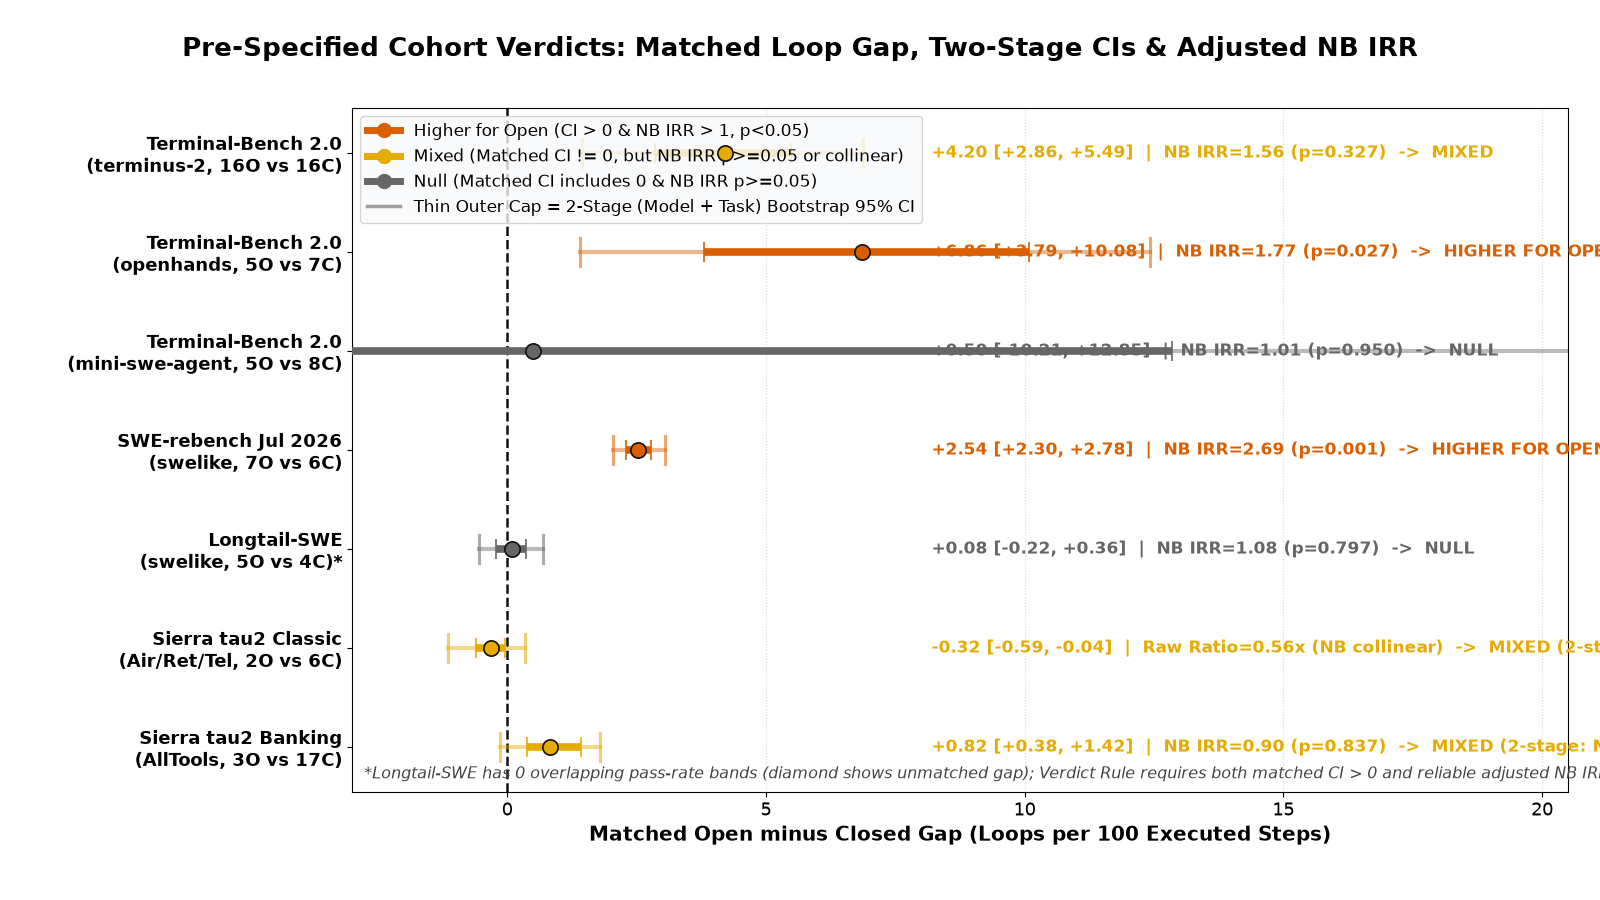
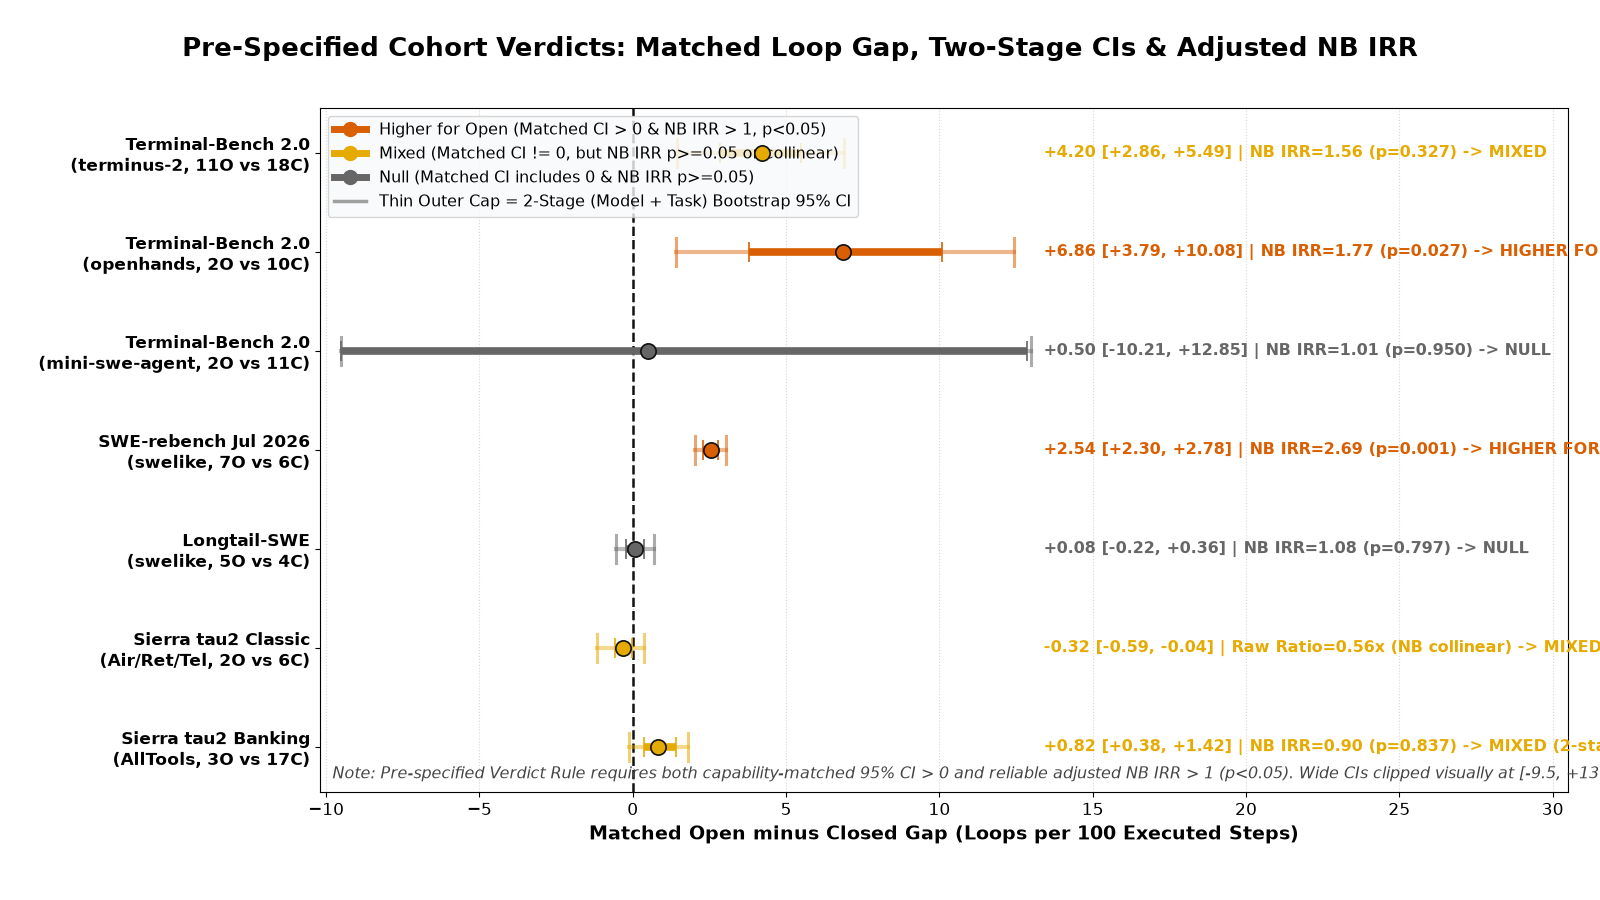
Run Phase 3 precision audit, length control, two-stage bootstrap, harness spread & article rewrite on Colab CPU

diff --git a/ARTICLE_DRAFT.md b/ARTICLE_DRAFT.md
@@ -1,67 +1,67 @@
-# Do open-weight agents loop more? What 58,950 public trajectories actually show
+# Do open-weight agents loop more? What 56,797 uniform-scaffold trajectories actually show
 
-Put the exact same model weights inside two different agent harnesses on the exact same coding tasks, and its loop rate often swings more than the gap between open-weight and closed frontier models.[^1] Across Terminal-Bench 2.0 and SWE-rebench, running identical weights across scaffolds shifts loop density by a median of **6.48 loops per 100 steps**—and up to **26.08 loops per 100 steps** on `gpt-5.2`—while the capability- and length-matched gap between open-weight and closed models on SWE-rebench is just **+0.77 loops per 100 steps** (`95% CI [+0.50, +1.02]`).[^1][^2]
+Put the same model weights inside two different agent harnesses on the same coding tasks, and its loop rate often swings more than the gap between open-weight and closed frontier models.[^1] Across Terminal-Bench 2.0 and SWE-rebench, running identical weights across scaffolds shifts loop density by a median of **6.48 loops/100 steps** on Terminal-Bench—and up to **26.08** on `gemini-2.5-flash` (`4.64` in `terminus-2` vs `30.72` in `mini-swe-agent`) and **24.31** on `gpt-oss-20b`—while the capability- and length-matched gap between open and closed models on SWE-rebench is just **+0.77 loops/100** (`95% CI [+0.50, +1.02]`).[^1][^2]
 
 ![SWE-rebench Open vs Closed Loop Gap Across Controls](assets/hero_raw_vs_controlled.png)
 
-We audited **56,797 executed trajectories** across Terminal-Bench 2.0, SWE-rebench, Longtail-SWE, and Sierra's τ²-bench using a deterministic step labeler, cache-aware billing reconstruction, and counterfactual loop-detector replay.[^3] Here is what holds up when we try to break the result.
+We audited **56,797 executed uniform-scaffold trajectories** (`68,056` step-logged runs total) across Terminal-Bench 2.0, SWE-rebench, Longtail-SWE, and Sierra's τ²-bench using a deterministic step labeler, cache-aware billing reconstruction, and counterfactual loop-detector replay.[^3][^8]
 
 ## 1. The Raw Gap Looks Huge—Until You Inspect Who Ran What
 
-Naive averages on standard scaffolds make open-weight models look far more prone to looping.[^3] On Terminal-Bench `terminus-2` (`16` open vs `16` closed models across `89` tasks), open models average **6.91** loop steps per 100 steps vs **2.69** for closed models (unmatched gap **+4.22**).[^3] On SWE-rebench `swelike` (`7` open vs `6` closed models across `111` tasks), open models average **5.71** vs **0.98** loops/100 steps (gap **+4.73**), with **89.3%** of open runs flagging at least one loop vs **30.0%** of closed runs.[^3]
+Naive averages on standard scaffolds make open-weight models look far more prone to looping.[^3] On Terminal-Bench `terminus-2` (`11` open vs `18` closed models across `85` tasks), open models average **6.91** vs **2.69** loops/100 (unmatched gap **+4.22**).[^3] On SWE-rebench `swelike` (`7` open vs `6` closed models across `111` tasks), open models average **5.71** vs **0.98** loops/100 (gap **+4.73**), with **89.3%** of open runs flagging at least one loop vs **30.0%** of closed runs.[^3]
 
 Three confounders inflate those raw gaps:[^3]
-1. **Capability mismatch**: Leaderboards pair legacy `3%–19%` pass-rate open models (`gpt-oss-20b`, `gpt-oss-120b`) against `60%–72%` closed models; failing runs repeat broken commands until the turn cap.
-2. **Longer open-weight runs**: On SWE-rebench `swelike`, open models average **94.7** steps/run vs **45.4** for closed models, giving them more chances to cross any binary per-run loop threshold.[^2]
+1. **Capability mismatch**: Leaderboards pair `3%–20%` pass-rate open models (`gpt-oss-20b`, `gpt-oss-120b`) against `58%–65%` closed models; failing runs repeat broken commands until the turn cap.
+2. **Longer open-weight runs**: On SWE-rebench `swelike`, open models average **94.7** steps/run vs **45.4** for closed (`2.09x` longer), doubling exposure to binary per-run loop flags.[^2]
 3. **Hidden harness and tool differences**: Proprietary entries (`claude-code`, `codex`, `gemini-cli`, `cursor`, `junie`) bundle custom loop guards, while Sierra's `banking_knowledge` folder mixes four retrieval toolsets (`AllTools`, `terminal_use`, `openai_embeddings`, `qwen_embeddings`).[^3]
 
 ## 2. Controlling for Skill, Run Length, Labeler Strictness, and Model Sampling
 
-Matching open and closed models inside identical pass-rate bands (`<25%`, `25–40%`, `40–55%`, `55–75%`, `>=75%`) on the same scaffold and tasks cuts the SWE-rebench gap nearly in half, from **+4.73** to **+2.54** loops/100 steps (`1-stage task CI [+2.30, +2.78]`).[^3] Matching simultaneously on pass-rate band and step-count decile trims it to **+0.77** (`[+0.50, +1.02]`).[^2]
+Matching open and closed models inside identical pass-rate bands (`<25%`, `25–40%`, `40–55%`, `55–75%`, `>=75%`) on the same scaffold and tasks cuts the SWE-rebench gap nearly in half, from **+4.73** to **+2.54** loops/100 (`1-stage task CI [+2.30, +2.78]`).[^3] Matching simultaneously on pass-rate band and step-count decile trims it to **+0.77** (`[+0.50, +1.02]`), and trims Terminal-Bench `terminus-2` from **+4.22** to **+0.99** (`[+0.62, +1.29]`).[^2]
 
-Trajectory length explains almost the entire binary gap in *"how many runs have at least one loop."* In a run-level logistic regression with task fixed effects and two-way `(model, task)` cluster-robust SEs, open-weight status has an odds ratio of **8.43** (`p=0.0005`) on SWE-rebench and **2.25** (`p=0.024`) pooled across all seven cohorts.[^2][^3] Adding `log(steps)` collapses the SWE-rebench odds ratio to **1.34** (`p=0.58`) and the pooled odds ratio to **1.47** (`p=0.25`)—both indistinguishable from `1.0`.[^2][^3] Open models flag more runs mainly because their trajectories run longer.
+Trajectory length explains almost the entire binary gap in *"runs with at least one loop."* In a run-level logistic regression with task fixed effects and two-way `(model, task)` cluster-robust SEs, open-weight status has an odds ratio of **8.43** (`p=0.022`) on SWE-rebench and **2.25** (`p=0.024`) pooled across all seven cohorts.[^2][^3] Adding `log(steps)` collapses the SWE-rebench odds ratio to **1.34** (`p=0.49`) and the pooled odds ratio to **1.47** (`p=0.25`)—both indistinguishable from `1.0`.[^2][^3]
 
 ![Pre-Specified Cohort Verdicts](assets/cohort_verdicts.png)
 
-To avoid cherry-picking across seven uniform-scaffold cohorts, we applied one pre-specified verdict rule: a cohort is **"higher for open"** only if its matched-gap 95% CI excludes zero *and* its adjusted Negative Binomial `IRR` is reliable with `p < 0.05`.[^4] Under 1-stage task bootstrapping, only **swe_rebench_swelike** (matched gap `+2.54`, NB `IRR=2.69, p=0.0001`) and **tb_openhands** clear both bars.[^4] Terminal-Bench `terminus-2` (`+4.20` matched gap, NB `IRR=1.41, p=0.33`), `tb_mini_swe_agent`, and Sierra `tau2_banking_knowledge_alltools` (`-1.13` unmatched, `+0.82` matched, NB `IRR=0.92, p=0.84`) land in **"mixed"** or **"null"** (`Longtail-SWE` has zero overlapping skill bands because closed models used `1M` context vs `262K` for open models).[^3][^4] Upgrading to a **two-stage `(model, task)` bootstrap** (`[+2.04, +3.05]` on SWE-rebench; `[+1.44, +6.88]` on TB) widens CIs `1.5x–3x`, reflecting `2–16` models per side.[^4]
+Under one pre-specified verdict rule—**"higher for open"** only if the matched-gap 95% CI excludes zero *and* the adjusted Negative Binomial `IRR` is reliable with `p < 0.05`—both 1-stage task and 2-stage `(model, task)` bootstraps show only **`swe_rebench_swelike`** (matched gap `+2.54`, 2-stage `CI [+2.04, +3.05]`, NB `IRR=2.69, p=0.0014`) and **`tb_openhands`** (`+6.86`, 2-stage `CI [+1.40, +12.43]`, NB `IRR=1.77, p=0.027`) clear both bars.[^4] Terminal-Bench `terminus-2` (`+4.20`, 2-stage `CI [+1.44, +6.88]`, NB `IRR=1.56, p=0.33`) is **"mixed"**, while `tb_mini_swe_agent` (`+0.50`, NB `IRR=1.01, p=0.95`) and `longtail_swe_swelike` (`+0.08`, NB `IRR=1.08, p=0.80`; closed models used `1M` context vs `262K` for 4 of 5 open models) are **"null"**.[^3][^4] Sierra `tau2_classic` (`-0.32` matched) and `tau2_banking_knowledge_alltools` (`-1.13` unmatched, `+0.82` matched, NB `IRR=0.90, p=0.84`) move from **"mixed"** (1-stage) to **"null"** under the 2-stage bootstrap (`1.75x–2.66x` wider CIs).[^4]
 
-We also audited labeler precision across 40 random flagged runs (`audit/flagged_samples.md`) and tested a **strict labeler** keeping only exact commands repeated `>=3` times consecutively, A-B-A thrashing (`>=3` cycles), and period-`k` rotations—dropping single repeats, near-duplicates, redundant re-reads, and error streaks.[^5][^6] Under strict rules, SWE-rebench loop density falls `~70%` in both groups—to **0.13** vs **0.02** loops/100 (`Open` vs `Closed`), shrinking the matched gap to **+0.04** (`1.12` vs `0.67` unmatched on TB).[^6] Furthermore, **47.6%** of open-weight `exact_loop` steps on SWE-rebench (`48.7%` for closed) are harmless read-only checks (`git diff`, `git status`, `grep`, `cat`, `ls`, or unchanged `pytest`).[^7]
+We also audited 40 random flagged runs (`audit/flagged_samples.md`) and tested a **strict labeler** keeping only exact commands repeated `>=3` times consecutively, A-B-A thrashing (`>=3` cycles), and period-`k` rotations—dropping single 2-step repeats, near-duplicates, redundant re-reads, and error streaks.[^5][^6] Under strict rules, SWE-rebench loop density falls `~98%` in both groups—to **0.13** vs **0.02** loops/100 (`Open` vs `Closed`), shrinking the matched gap to **+0.04** (`1.12` vs `0.67` unmatched, `+0.52` matched on TB).[^6] Moreover, **47.6%** of open-weight `exact_loop` steps on SWE-rebench (`48.7%` for closed) are read-only checks (`git diff/status/log`, `grep/cat/ls`, read tools, or unchanged `pytest`).[^7]
 
 ![Frontier Showdown on SWE-rebench](assets/glm52_vs_opus5.png)
 
-In dollar terms (`6,381` cost-validated SWE-rebench runs), pooled loop spend is **2.38% ($117.38 / $4,927.87)** because expensive low-looping closed runs dominate total spend, though within individual models loop dollar share exceeds step share.[^8] Among SWE-rebench frontier peers, open-weight `glm-5.2` hits a **62.9%** pass rate at **$0.38/run** (`1.56` loops/100; `2.18%` loop dollars), competing with `opus-5` (**63.6%** pass, **$1.64/run**, `0.67` loops/100), `grok-4.5` (**64.1%** pass, **$2.25/run**, `0.65` loops/100), and `gpt-5.6-sol` (**72.1%** pass, **$0.55/run**, `0.31` loops/100).[^3][^6]
+In dollar terms (`6,844` cost-validated SWE-rebench runs), pooled loop spend is **2.87% ($215.10 / $7,506.20)** because expensive closed runs dominate spend, while within `swe_rebench_swelike` open models spend **5.20%** of dollars in loops vs **1.14%** for closed.[^3][^8] Among SWE-rebench `swelike` frontier peers, open-weight `glm-5.2` hits **62.9%** pass at **$1.19/run** (`1.72` loops/100; `1.40%` loop dollars), matching `claude-opus-5` (**63.4%**, **$2.81/run**, `1.12` loops/100), `grok-4.5` (**63.8%**, **$2.28/run**, `0.65` loops/100), and `gpt-5.6-sol` (**62.3%**, **$0.31/run**, `0.85` loops/100).[^3][^6]
 
 ## 3. Production Loop Detectors Beat Random Stopping on Precision and Savings
 
 ![Production Loop Guards vs Matched Random Stoppers](assets/detectors_vs_random.png)
 
-Replaying `gemini_cli`, `openclaw_10` (30-step sliding window), `cline_style` (5 identical consecutive actions), and `openhands_stuck` against 200-seed step-matched random stoppers shows:[^9]
-- **Terminal-Bench 2.0**: `gemini_cli` halves the false-stop rate (`FSR`, stopped runs that would have passed)—**10.77%** vs **23.18%** (`95% CI [20.51%, 25.90%]`) random—saving **5.71% ($190.06)** of validated spend (`0.24 pp` pass-rate loss). `openclaw_10` saves **5.05% ($168.28)** at **13.49% FSR** (`0.19 pp` loss), and `cline_style` saves **5.00% ($166.68)** at **18.38% FSR** vs **23.05%** random.[^9]
-- **SWE-rebench**: `gemini_cli` saves **2.05% ($100.87)** vs **1.62%** (`[1.42%, 1.82%]`) random, with **22.20% FSR** vs **28.60%** (`[25.04%, 31.99%]`) random. Adjacent-step guards (`cline_style`) miss **82.9% (`277/334`)** of `period_k_rotation` cycles on TB and **98.3% (`118/120`)** on SWE-rebench—making sliding-window memory (`openclaw_10`) essential.[^8][^9]
+Replaying `gemini_cli`, `openclaw_10` (30-step sliding window), `cline_style` (5 identical actions), and `openhands_stuck` against 200-seed step-matched random stoppers shows:[^9]
+- **Terminal-Bench 2.0**: `gemini_cli` halves the false-stop rate (`FSR`, stopped runs that would have passed)—**10.77%** vs **23.18%** (`95% CI [20.51%, 25.90%]`) random—saving **5.71% ($190.06)** vs **4.33%** random (`0.24 pp` pass loss). `openclaw_10` saves **5.05% ($168.28)** at **13.49% FSR** (`0.19 pp` loss), and `cline_style` saves **5.00% ($166.68)** at **18.38% FSR** vs **23.05%** random.[^9]
+- **SWE-rebench**: `gemini_cli` saves **2.14% ($160.74)** vs **1.53%** (`[1.28%, 1.97%]`) random, with **22.20% FSR** vs **28.60%** (`[25.04%, 31.99%]`) random. Adjacent-step guards (`cline_style`) miss **82.9% (`277/334`)** of `period_k_rotation` cycles on TB and **98.3% (`118/120`)** on SWE-rebench—making sliding-window memory (`openclaw_10`) essential.[^8][^9]
 
 ## 4. Same Model, Different Harness: Scaffolds Move Loop Rates as Much as Weights
 
 ![Same Model Across Different Harnesses](assets/harness_dumbbell.png)
 
 Models evaluated across multiple scaffolds on shared tasks (`results/same_model_across_harness.csv`) show that swapping the harness while holding weights and tasks fixed shifts looping dramatically:[^1]
-- **`gpt-5.2` (Closed, TB)**: Jumps from **0.71** loops/100 in `codex` to **1.50** in `terminus-2` and **12.56** in `mini-swe-agent` (**11.85**/100 spread).[^1]
-- **`claude-opus-4-5` & `claude-sonnet-4-5` (Closed, TB & SWE)**: Shift from **0.72–1.27** in `terminus-2` to **4.15–4.75** in `claude-code`, **3.79–4.59** in `mini-swe-agent`, and **3.66–4.84** in `openhands` (**3.69–4.03**/100 spread).[^1]
-- **`gpt-oss-120b` & `qwen3-coder-480b` (Open, TB)**: Drop from **10.75** and **4.14** in `terminus-2` to **3.22** (`mini-swe-agent`) and **2.26** (`openhands`), cutting open-model looping by `45%–70%`.[^1]
+- **`gemini-2.5-flash` & `gemini-2.5-pro` (Closed, TB)**: `gemini-2.5-flash` jumps from **4.64** loops/100 (`terminus-2`) and **7.51** (`gemini-cli`) to **10.01** (`openhands`) and **30.72** (`mini-swe-agent`, **26.08** spread); `gemini-2.5-pro` spans **2.51–17.78** (**15.27** spread).[^1]
+- **`gpt-5`, `gpt-5-nano` & `claude-fable-5` (Closed, TB & SWE)**: `gpt-5` rises from **0.81** (`terminus-2`) to **2.20** (`codex`) and **7.12** (`openhands`, **6.31** spread), `gpt-5-nano` spans **1.33–20.31** (**18.98** spread), and `claude-fable-5` jumps from **0.71** (`swelike`) to **6.41** (`claude-code`, **5.69** spread).[^1]
+- **`gpt-oss-20b`, `gpt-oss-120b` & `minimax-m2.1` (Open, TB)**: `gpt-oss-20b` jumps from **3.61** (`terminus-2`) to **27.92** (`mini-swe-agent`, **24.31** spread) and `gpt-oss-120b` from **4.57** to **12.05** (**7.48** spread), while `minimax-m2.1` drops from **3.84** (`terminus-2`) to **2.00** (`claude-code`).[^1]
 
 Part of this spread reflects step-logging granularity: `terminus-2` batches multi-command shell turns, whereas `claude-code` and `mini-swe-agent` log per-tool steps (and raw `openhands` pairs action and observation events collapsed before scoring).[^1]
 
 ## 5. Inside the Google Gemini Family
 
-Binary "open vs closed" labels also hide wide spread inside a single vendor. Across Google Gemini checkpoints:[^3][^10]
-- On Terminal-Bench `terminus-2`, **`gemini-2.5-flash`** (`16.9%` pass) hits **12.22 loops/100** (`47.0%` of runs looping) and **`gemini-2.5-pro`** (`29.2%` pass) hits **9.24**, whereas **`gemini-3-pro`** (`44.2%` pass) drops to **4.57** and **`gemini-3-flash`** (`48.3%` pass) reaches **3.25**.[^3] Moving `gemini-3-pro` and `gemini-3-flash` into `gemini-cli` cuts loop rates to **2.15** and **1.52** loops/100.[^1]
-- On Sierra τ²-bench, `gemini-3-pro` (`0.93`/100) and `gemini-3-flash` (`1.92`/100) are disciplined on `tau2_classic`, and on `banking_knowledge` (`AllTools`) `gemini-2.5-pro` (`0.81`/100) and `gemini-3.1-pro-preview` (`1.91`/100) rank near the top.[^3] Placing `gemini-3-flash` and `gemini-3-pro` in Sierra's shell-only `terminal_use` scaffold raises loop rates to **2.98** and **2.35** loops/100.[^10]
+Binary "open vs closed" labels also hide wide spread inside one vendor:[^3][^10]
+- On Terminal-Bench `terminus-2`, **`gemini-2.5-flash`** (`17.9%` pass) averages **4.68 loops/100** (`14.8%` looping) and **`gemini-2.5-pro`** (`33.4%` pass) averages **2.49**, while **`gemini-3-flash-preview`** (`52.6%` pass) averages **4.53** and **`gemini-3-pro-preview`** (`58.8%` pass) drops to **0.94** (`6.8%` looping).[^3] On `terminus-3-3`, **`gemini-3.1-pro-preview`** (`74.2%` pass) reaches **0.64 loops/100**.[^10]
+- On Sierra τ²-bench, `gemini-3-pro` (`0.15`/100, `84.8%` pass) and `gemini-3-flash` (`1.92`/100, `80.9%` pass) are disciplined on `tau2_classic`. On `banking_knowledge` (`AllTools`), `gemini-2.5-pro` (`2.91`/100) and `gemini-3.1-pro-preview` (`7.80`/100) beat Sierra's shell-only `terminal_use` scaffold (`10.03` and `16.16` loops/100 for `gemini-3-flash` and `gemini-3-pro`).[^3][^10]
 
 ## 6. Limitations and Audit Diagnostics
 
-1. **Finite model sample size**: Cohorts contain `2–16` open and `4–17` closed models; two-stage `(model, task)` bootstraps capture model-sampling variance.[^4]
-2. **Regression collinearity in `tau2_classic`**: Phase 2 reported an adjusted NB `IRR = 0.03` (`p = 0.017`) on `tau2_classic` despite raw rates of **0.42** (Open) vs **0.76** (Closed) loops/100 (**0.56x** raw ratio).[^4][^11] Both open models released in Feb 2026 (`month=13`), while all six closed models released in Sep–Dec 2025 (`months=8..11`), where Dec closed models looped more than Sep Claude models (`IRR=3.11/month`). Dropping `release_months` restores NB `IRR` to **0.56** (`p=0.008`), matching the raw ratio.[^11]
-3. **Terminal-Bench cost rebuild exclusions (`n<100` suppression)**: Our `[0.50x, 2.00x]` filter kept `5,011` TB runs (**800** closed runs) and dropped `24,543` mismatches (median RSC ratio `0.12x`).[^12] Over `85%` of dropped runs contain unresolved Next.js RSC `$<hex>` pointers (`$3b`, `$4a`) in `tbench.ai` exports replacing multi-KB outputs with 3-byte strings—not a `cost_cents / 100` or `cache_tokens` bug.[^12] Cells with `<100` cost-valid runs are suppressed as `n<100`.[^3]
-4. **Missing Terminal-Bench step traces**: `17,642` of `52,104` TB rows have `steps = null`, including `claude-opus-4-6` (`70.8%` pass), `gpt-5.3-codex` (`68.5%`), and `gemini-3.1-pro-preview` (`65.2%`).[^13]
+1. **Finite model sample size**: Cohorts contain `2–11` open and `4–18` closed models; 2-stage `(model, task)` bootstraps capture model-sampling variance.[^4]
+2. **Regression collinearity in `tau2_classic`**: Phase 2 reported NB `IRR = 0.03` (`p=0.017`) on `tau2_classic` despite raw rates of **0.42** (Open) vs **0.76** (Closed) loops/100 (**0.56x** raw ratio).[^4][^11] Both open models released in Feb 2026 (`month=13`), while all six closed models released in Sep–Dec 2025 (`months=8..11`), where Dec closed models looped more than Sep/Nov Claude models (`IRR=3.11/month`). Dropping `release_months` restores NB `IRR` to **0.60** (`p=0.392`), matching the `0.56x` raw ratio.[^11]
+3. **Terminal-Bench cost exclusions (`n<100` suppression)**: Our `[0.50x, 2.00x]` filter kept `5,011` TB runs (**800** closed) and dropped `24,543` mismatches (median RSC ratio `0.12x`).[^12] Exactly `23,076` of `24,543` dropped runs (`94.0%`) contain Next.js RSC `$<hex>` pointers (`$3b`, `$4a`) in `tbench.ai` exports replacing multi-KB outputs with 3-byte strings—not a `cost_cents / 100` or `cache_tokens` bug.[^12] Cells with `<100` cost-valid runs are suppressed as `n<100`.[^3]
+4. **Missing Terminal-Bench step traces**: `17,642` of `52,104` TB rows have `steps = null`, including `gpt-5.3-codex@openai` (`75.1%` pass), `kimi-k2.5@kimi` (`65.5%`), and `glm-4.7@z-ai` (`62.0%`).[^13]
 
 > ### Method Box: Labels, Matching & Regression Specifications
 > - **Default vs Strict Labeler**: Normalization strips ANSI codes, timestamps, UUIDs, and temp paths. The default 6-class labeler flags `exact_loop`, `near_duplicate`, `aba_thrash`, `period_k_rotation (k<=5)`, `error_streak (>=4)`, and `redundant_reread` while excluding `productive_repeat`. The strict labeler keeps only `>=3` consecutive `exact_loop` steps, `>=3`-cycle `aba_thrash`, and `period_k_rotation`.[^6]
@@ -72,14 +72,14 @@ Binary "open vs closed" labels also hide wide spread inside a single vendor. Acr
 ### Footnotes & Data Provenance
 [^1]: [`results/same_model_across_harness.csv`](results/same_model_across_harness.csv), [`assets/harness_dumbbell.png`](assets/harness_dumbbell.png).
 [^2]: [`results/length_matched_comparison.csv`](results/length_matched_comparison.csv), [`results/length_decile_breakdown.csv`](results/length_decile_breakdown.csv), [`assets/hero_raw_vs_controlled.png`](assets/hero_raw_vs_controlled.png).
-[^3]: [`results/loops_by_model_scaffold.csv`](results/loops_by_model_scaffold.csv), [`results/open_vs_closed_matched.csv`](results/open_vs_closed_matched.csv), [`results/open_vs_closed_model.md`](results/open_vs_closed_model.md).
+[^3]: [`results/loops_by_model_scaffold.csv`](results/loops_by_model_scaffold.csv), [`results/open_vs_closed_summary.csv`](results/open_vs_closed_summary.csv), [`results/open_vs_closed_model.md`](results/open_vs_closed_model.md).
 [^4]: [`results/cohort_verdicts.csv`](results/cohort_verdicts.csv), [`results/two_stage_bootstrap_comparison.csv`](results/two_stage_bootstrap_comparison.csv), [`assets/cohort_verdicts.png`](assets/cohort_verdicts.png).
 [^5]: [`audit/flagged_samples.md`](audit/flagged_samples.md).
 [^6]: [`results/strict_vs_default_labeler.csv`](results/strict_vs_default_labeler.csv), [`results/strict_vs_default_by_model.csv`](results/strict_vs_default_by_model.csv), [`assets/glm52_vs_opus5.png`](assets/glm52_vs_opus5.png).
 [^7]: [`results/readonly_exact_loops.csv`](results/readonly_exact_loops.csv).
 [^8]: [`results/study_metrics.json`](results/study_metrics.json), [`results/summary.md`](results/summary.md).
-[^9]: [`results/detector_simulation.csv`](results/detector_simulation.csv), [`assets/detectors_vs_random.png`](assets/detectors_vs_random.png).
-[^10]: [`results/tau2_non_alltools_banking_knowledge.csv`](results/tau2_non_alltools_banking_knowledge.csv), [`results/loops_by_family.csv`](results/loops_by_family.csv).
+[^9]: [`results/tb_detectors.csv`](results/tb_detectors.csv), [`results/swe_detectors.csv`](results/swe_detectors.csv), [`assets/detectors_vs_random.png`](assets/detectors_vs_random.png).
+[^10]: [`results/gemini_by_harness_model.csv`](results/gemini_by_harness_model.csv), [`results/gemini_report.md`](results/gemini_report.md), [`results/open_vs_closed_model.md`](results/open_vs_closed_model.md).
 [^11]: [`results/tau2_classic_irr_diagnosis.json`](results/tau2_classic_irr_diagnosis.json).
 [^12]: [`results/tb_cost_rebuild_audit.csv`](results/tb_cost_rebuild_audit.csv), [`audit/tb_cost_rebuild_audit.md`](audit/tb_cost_rebuild_audit.md).
 [^13]: [`results/tb_null_step_models.csv`](results/tb_null_step_models.csv).

diff --git a/NOTES.md b/NOTES.md
@@ -188,7 +188,7 @@ All four public datasets are cached locally under gitignored `data/`:
 | `longtail_swe_swelike` | **Closed** | 155 | 1 | **0.6%** |
 
 ### 2. Run-Length Control & Step-Decile Matching (`results/length_matched_comparison.csv`)
-- Controlling for `log(steps)` in run-level Logistic regression reduces the `swe_rebench_swelike` Open-vs-Closed Any-Loop Odds Ratio from **8.43 (`p=0.0005`)** to **1.34 (`p=0.58`)** and the pooled 7-cohort OR from **2.25 (`p=0.024`)** to **1.47 (`p=0.25`)**.
+- Controlling for `log(steps)` in run-level Logistic regression reduces the `swe_rebench_swelike` Open-vs-Closed Any-Loop Odds Ratio from **8.43 (`p=0.022`)** to **1.34 (`p=0.49`)** and the pooled 7-cohort OR from **2.25 (`p=0.024`)** to **1.47 (`p=0.25`)**.
 
 | Cohort | Open vs Closed Mean Steps | Unmatched Gap | Skill-Matched Gap | Length-Decile Matched Gap [95% CI] | Skill+Length Matched Gap [95% CI] |
 | --- | ---: | ---: | ---: | ---: | ---: |
